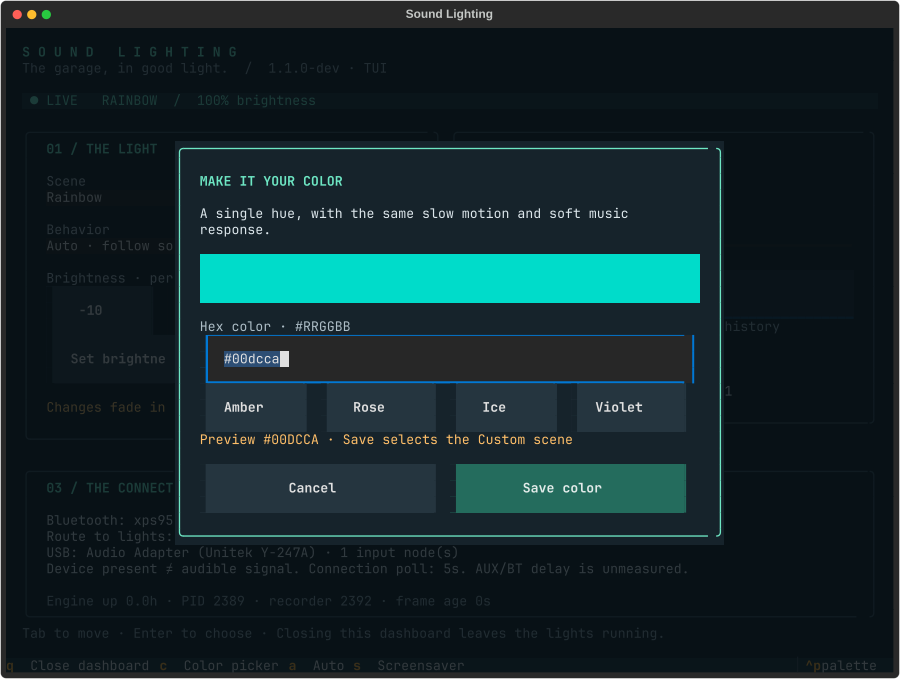
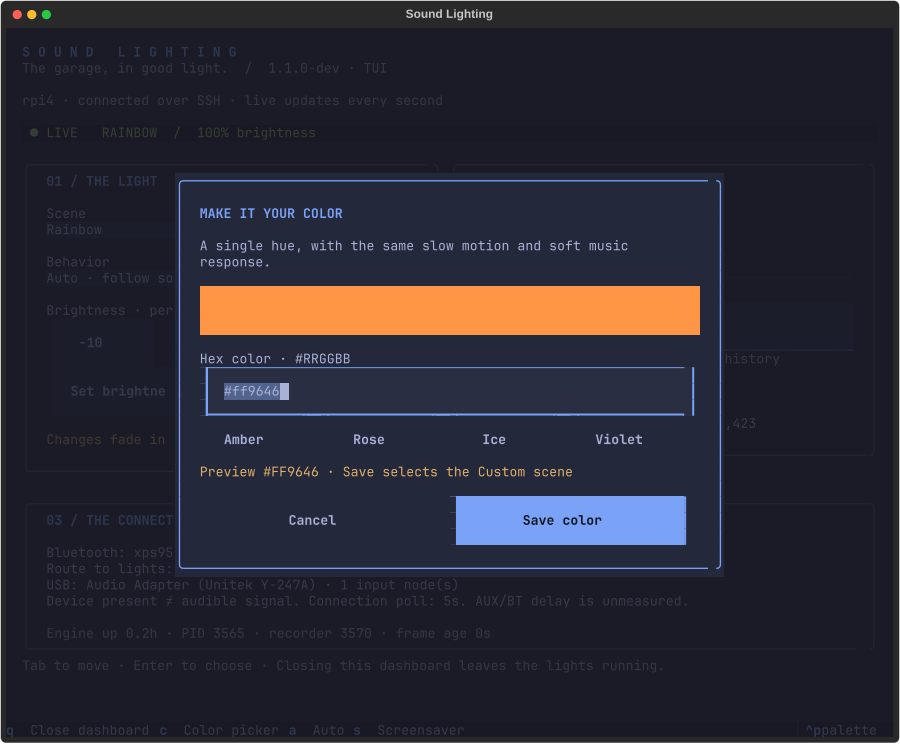
docs(omarchy): document native app, reconnects, and mute response

diff --git a/docs/dashboard.md b/docs/dashboard.md
@@ -8,14 +8,30 @@ no restart, and closing it leaves the lights on.
 
 ## Open it
 
-On this Omarchy laptop:
+On this Omarchy laptop, **SUPER+SPACE → Sound Lighting**. It opens in your default
+terminal with an app icon and the active Omarchy color palette. Reopen after
+changing themes to pick up the new palette. You can also run:
 
 ```sh
-ssh -t rpi4 'sudo lights tui'
+sound-lighting
 ```
 
-On the Pi: `sudo lights tui`. For observation only: `lights tui --read-only`.
-Use a terminal around **110 columns × 40 rows** for the full view. Narrower windows
+The interface runs on the laptop. A single SSH connection streams Pi status and
+acknowledges settings changes. It uses your existing `rpi4` SSH configuration and
+key; it never stores a password. No extra network port is opened.
+
+When the Pi is missing, the window stays open, reports the connection error and
+retry countdown, and retries five seconds after each failed attempt. Connection
+attempts are bounded. Controls are disabled while disconnected; changes are not
+queued for an unexpected later replay. If an acknowledgement is lost, check the
+live settings after reconnecting before retrying. Closing the app closes its SSH
+agent; the light service and laptop audio helper keep running.
+
+![Pi offline with automatic retry](images/offline.png)
+
+On the Pi: `sudo lights tui` still works after `bash install/install-tui.sh`.
+For observation only on the laptop: `sound-lighting --read-only`.
+Use a terminal around **110 columns × 44 rows** for the full view. Narrower windows
 stack the panels; scroll or Tab to reach the remaining controls.
 
 | Control | What happens |
@@ -30,15 +46,17 @@ The custom scene uses the existing slow waves and gentle sound response. It hold
 the hue you picked; brightness still varies across the span. Workshop is the
 constant utility-light option. The terminal swatch is an approximation of the LEDs.
 Saved settings apply within a second and fade smoothly. The top strip shows what
-the engine has actually applied; form fields are loaded when the dashboard opens
-and after its own changes. CLI changes appear in live status too.
+the engine has actually applied. Remote changes refresh the controls while keeping
+an unfinished brightness edit intact. CLI changes appear in live status too.
 
 ![Separate color-picker dialog](images/color-picker.png)
 
 ## Read the room
 
-- **Sound reactive / Screensaver:** actual engine state, with the remaining quiet
-  timeout. The existing default is 15 seconds.
+- **Sound reactive / Quiet / Screensaver:** silence lasting more than 0.25 seconds
+  dims to an 8% glow multiplier in about two seconds. After the four-second quiet
+  timeout, standby fades back in. Sound returns automatically at any point.
+  Workshop and forced Screensaver bypass this dim.
 - **Signal:** RMS level in dBFS, a −60 to 0 dBFS meter, and 60 seconds of relative
   history sampled once per second. Fast transients between status updates may be missed.
 - **Capture:** frames arriving, configured 48 kHz mono, retry count, analyzed
@@ -59,6 +77,27 @@ measured. Audio inspection failures appear on the dashboard and retry automatica
 
 ## Install the optional interface
 
+First update the Pi’s `TUI` checkout so `tools/remote_agent.py` is present. The
+supported Pi user already has noninteractive sudo for the existing lighting setup.
+Verify the existing key-based connection with `ssh -o BatchMode=yes rpi4 true`.
+Then, on Omarchy, from the laptop checkout:
+
+```sh
+python3 tools/install_omarchy.py --host rpi4
+```
+
+The installer creates `~/.local/bin/sound-lighting`,
+`~/.local/share/applications/org.omarchy.SoundLighting.desktop`, and an SVG icon
+under `~/.local/share/icons/hicolor/scalable/apps/`. Dependencies live in
+`~/.local/share/sound-lighting/tui-venv`. The launcher references this checkout;
+rerun the installer if you move it. Replaced launcher/icon files are backed up
+under `~/.local/state/sound-lighting/install-backup/`. An app-specific rule in
+`~/.config/hypr/sound_lighting.lua` opens a centered 1100 × 880 window; the installer
+adds its include to `hyprland.lua`, reloads and validates it, and restores the old
+configuration if validation fails. Your terminal configuration remains unchanged.
+
+The Pi-hosted interface is also available:
+
 From a clean checkout on the supported Pi layout:
 
 ```sh
@@ -77,7 +116,7 @@ not interrupt either. It pins Textual in
 the `lights tui` launcher. The LED service keeps its existing system Python,
 NumPy, and WS2811 library. `python3-venv` is required to create the environment.
 
-The UI consists of `tools/dashboard.py`, `tools/dashboard.tcss`, and
+The local UI consists of `tools/dashboard.py`, `tools/dashboard.tcss`, and
 `tools/dashboard_data.py`. It imports shared settings validation and reads the
 engine's status JSON. PipeWire inspection runs as `pi`, even when the dashboard
 runs under sudo, and its short-lived subprocess is reaped on timeout or exit.
@@ -86,6 +125,7 @@ runs under sudo, and its short-lived subprocess is reaped on timeout or exit.
 
 ```sh
 python3 -m unittest discover -s tests
+python3 -m unittest discover -s tests -p test_remote.py
 ~/.local/share/sound-lighting/tui-venv/bin/python -m unittest discover -s tests -p test_dashboard.py
 ```
 
@@ -93,7 +133,8 @@ The core suite skips optional UI interactions when Textual is absent; the second
 command runs those interactions in a headless terminal against temporary settings.
 The suite checks preserved preferences, brightness validation, color save/cancel,
 read-only behavior, stale status, connection-versus-route detection, custom hue
-rendering, and recorder cleanup/retry.
+rendering, and recorder cleanup/retry. Transport tests cover initial failure,
+reconnection, acknowledged writes, no offline replay, and child-process cleanup.
 
 ## Return to 1.0
 

diff --git a/README.md b/README.md
@@ -16,20 +16,19 @@ Laptop audio ────────────┤
 
 ## Light it up
 
-**On the `TUI` branch:** a small terminal dashboard for the whole room.
-Scenes, brightness, a separate color-picker window, and live sound/connection health.
+**On the `TUI` branch:** an Omarchy app for the whole room.
+Press **SUPER+SPACE**, search **Sound Lighting**, and open it. Scenes, brightness,
+a separate color-picker window, and live sound/connection health follow your Pi.
+If it is powered off, the app stays open and retries automatically.
 
 ```sh
-# On the Pi, after the core installation below:
-bash install/install-tui.sh
-sudo lights tui
-# Or open it directly from your laptop:
-ssh -t rpi4 'sudo lights tui'
+# Install the app on Omarchy, using your existing SSH alias:
+python3 tools/install_omarchy.py --host rpi4
 ```
 
 Closing the dashboard leaves the lights running. [Dashboard guide →](docs/dashboard.md)
 
-![Sound Lighting dashboard on the Pi](docs/images/dashboard.png)
+![Sound Lighting on Omarchy](docs/images/dashboard.png)
 
 Want it to run whenever the Pi is powered? [Install boot startup](docs/installation.md).
 
@@ -37,8 +36,10 @@ Want it to run whenever the Pi is powered? [Install boot startup](docs/installat
 sudo bash install/install.sh
 ```
 
-It starts in colorful idle mode, follows music when it arrives, and returns to idle
-after **15 seconds of quiet**. No desktop login or USB sound card needed.
+It starts in colorful standby and follows music when it arrives. Silence dims the
+glow quickly, then colorful standby returns after **four seconds of quiet**.
+No desktop login or USB sound card needed. Existing installations retain their
+saved timeout; use `sudo lights quiet 4` for this branch’s shorter default.
 
 After installation, make changes while the lights keep running:
 
@@ -65,7 +66,8 @@ forced kills and power loss cannot guarantee clearing.
 
 - **Color that stays colorful.** Fully saturated bands, slowly drifting along the strip.
 - **Music without the flicker.** Fast changes in sound soften into a gentle glow.
-- **Light between songs.** A colorful idle animation takes over after 15 seconds of quiet.
+- **Light between songs.** A brief dim settles into colorful standby after four seconds.
+- **At home on Omarchy.** Launcher icon, your active theme, and automatic Pi reconnection.
 - **A cord less.** AUX feeds the speaker while Bluetooth carries the same audio to the Pi.
 - **No-fuss controls.** Change scenes, brightness, and sound behavior without a restart.
 
@@ -96,6 +98,7 @@ See [version notes](CHANGELOG.md) for the concise release history.
 | [dashboard_data.py](tools/dashboard_data.py) | Settings and audio inspection, with no LED driver. |
 | [addy_demo.py](RpiLightStripCodes/addy_demo.py) | Utility light, color checks, and sound-free patterns. |
 | [connect_garage_audio.py](tools/connect_garage_audio.py) | Restore or continuously maintain AUX/Bluetooth output. |
+| [remote_backend.py](tools/remote_backend.py) · [remote_agent.py](tools/remote_agent.py) | Reconnecting SSH control; no extra server port. |
 | [legacy/](legacy/) | Earlier experiments, images, and iterations. Deprecated, preserved, visible. |
 
 Python **3.13.5**, NumPy **2.2.4**, and `rpi_ws281x` **5.0.0** are the verified combination.

diff --git a/docs/operations.md b/docs/operations.md
@@ -2,7 +2,8 @@
 
 v1.0 supports the documented Pi 4 installation, its GBR WS2811 strip, and the
 PipeWire laptop-to-Pi audio link. The defaults keep the approved saturated Rainbow
-scene and 15-second silence timeout.
+scene. The `TUI` branch adds a quick dim followed by standby after four seconds
+of silence; the tagged v1.0 default remains 15 seconds.
 
 ## Change the mood
 
@@ -16,7 +17,7 @@ sudo lights scene workshop
 sudo lights brightness 80
 sudo lights mode idle
 sudo lights mode auto
-sudo lights quiet 15
+sudo lights quiet 4
 sudo lights threshold 0.003
 ```
 
@@ -76,7 +77,9 @@ python3 tools/connect_garage_audio.py --pi-address YOUR_PI_BLUETOOTH_ADDRESS --w
 
 It checks every 15 seconds, reconnects when the Pi returns, selects A2DP when
 needed, and rebuilds the combined sink if the Bluetooth endpoint changes.
-It preserves the physical speaker's volume and mute state. It routes real
+It preserves the physical speaker’s volume. The `TUI` helper synchronizes mute
+and unmute across AUX, the combined sink, and the Pi feed every half-second, so
+Omarchy’s physical-output mute also silences the light input. It routes real
 application playback streams into `garage_dual` while active, including new apps.
 It does not pair unknown devices or enable discovery.
 

diff --git a/CHANGELOG.md b/CHANGELOG.md
@@ -2,6 +2,21 @@
 
 ## 1.1.0-dev · TUI branch
 
+**Omarchy app:** SUPER+SPACE → Sound Lighting; app icon, native terminal window,
+active theme colors, local dashboard, bounded SSH reconnects, offline countdown,
+and acknowledged controls. Disconnected changes are not queued.
+
+**Mute fix:** AUX, combined output, and the Pi feed now share mute/unmute without
+changing volume levels. Silence dims the strip quickly, then standby returns after
+four seconds. Workshop and forced Screensaver retain their ambient behavior.
+
+**Fixed:** Status refresh preserves brightness drafts; dashboard exit waits for its
+SSH child to be reaped. Launcher installation backs up and validates its window rule.
+
+**Checks:** 28 tests across core and optional UI environments; actual SSH drop and
+reconnection with controls restored; real mute → dim (~2s) → standby (~5s), then
+unmute → sound reaction, all with one unchanged lighting PID.
+
 **Features:** Live terminal dashboard; scene and screensaver controls; brightness;
 separate color dialog with swatch and presets; animated Custom hue; signal history,
 capture retries, peak/clipping counters, and Bluetooth route/USB detection.

diff --git a/docs/installation.md b/docs/installation.md
@@ -3,8 +3,8 @@
 From **0.2.0**, the Pi starts colorful, moving light at boot, even without a laptop,
 Bluetooth connection, USB sound card, or desktop login.
 
-When audio arrives, brightness smoothly starts following the music. After **15
-seconds below the sound threshold**, it blends back into the idle animation.
+When audio arrives, brightness smoothly starts following the music. On `TUI`, silence quickly dims the glow, then after **four seconds below the
+sound threshold**, it blends back into the idle animation.
 The colors keep flowing throughout. A connection opening by itself does not count
 as sound.
 
@@ -50,7 +50,9 @@ Boot ──► colorful idle animation
                ▼
          music-reactive glow
                │
-       15 seconds of quiet
+         quick dim
+               │
+        4 seconds of quiet
                └──────────────► colorful idle animation
 ```
 
@@ -107,7 +109,7 @@ sudo systemctl enable --now addy-bluetooth.service
 ```sh
 sudo lights scene rainbow
 sudo lights brightness 80
-sudo lights quiet 15
+sudo lights quiet 4
 sudo lights threshold 0.003
 lights status
 ```
